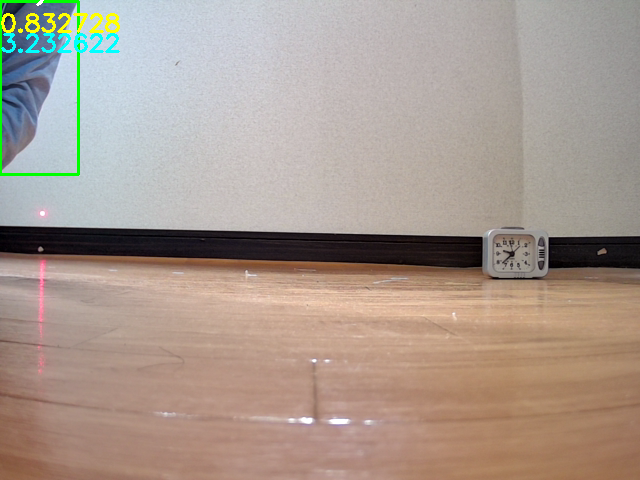
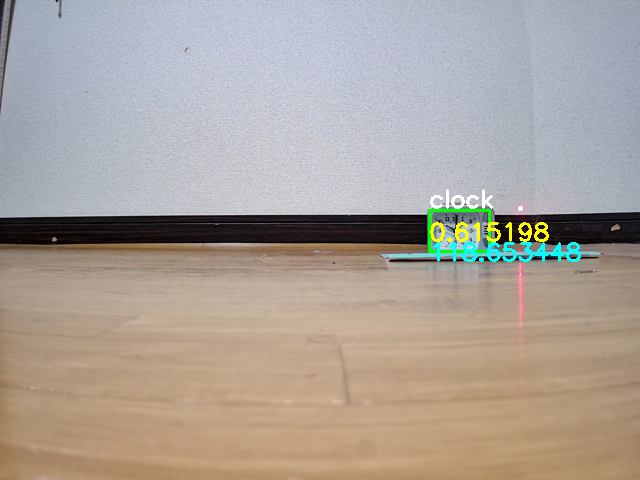
entire update

diff --git a/hw_px3/hw_px3/main.py b/hw_px3/hw_px3/main.py
@@ -5,6 +5,53 @@ from rclpy.node import Node
 from custom_msgs.msg import AbsResult
 import serial
 import time
+import numpy as np
+
+
+def theta(x, z, max_x):
+    AO = int(max_x / 2)
+    OP = z
+    dot = -AO * (x - AO) + OP ** 2
+    mag_CA = np.sqrt(AO ** 2 + OP ** 2)
+    mag_Cx = np.sqrt((x - AO) ** 2 + OP ** 2)
+    cos_theta = dot / (mag_CA * mag_Cx)
+    cos_theta = np.clip(cos_theta, -1.0, 1.0)
+    return np.degrees(np.arccos(cos_theta))
+
+
+def get_angle_from_x(x):
+    # reference table
+    points = [
+        (0, 57),
+        (8, 59),
+        (23, 65),
+        (40, 71),
+        (59, 77),
+        (79, 84),
+        (98, 89),
+        (115, 97),
+        (132, 102),
+        (148, 108),
+        (156, 109)
+    ]
+
+    if x < 0 or x > 156:
+        return None  # Cambiado: devolver None para errores
+
+    for point_x, point_angle in points:
+        if x == point_x:
+            return point_angle
+
+    for i in range(len(points) - 1):
+        x0, angle0 = points[i]
+        x1, angle1 = points[i + 1]
+        if x0 <= x <= x1:
+            ratio = (x - x0) / (x1 - x0)
+            angle = angle0 + ratio * (angle1 - angle0)
+            return round(angle, 2)
+
+    return None  # Si no encuentra, devolver None
+
 
 class AbsSubscriber(Node):
     def __init__(self):
@@ -15,21 +62,16 @@ class AbsSubscriber(Node):
             self.listener_callback,
             10
         )
-        self.subscription
 
         try:
-            self.declare_parameter('arduino_path', '/dev/ttyACM0')
+            self.declare_parameter('arduino_path', '/dev/ttyACM1')
             arduino_path = self.get_parameter('arduino_path').get_parameter_value().string_value
             self.ser = serial.Serial(arduino_path, 9600, timeout=1)
 
-            # === Initial setup ===
             self.initial_value = 56
-            self.current_angle = self.initial_value
-
-            # Send initial angle
-            self.send_angle(self.current_angle)
-            self.get_logger().info(f"Servo initialized at angle: {self.current_angle}")
-            time.sleep(5)
+            self.send_angle(self.initial_value)
+            self.get_logger().info(f"Arduino initialized at {arduino_path}, angle set to {self.initial_value}")
+            time.sleep(2)  # Opcional: espera para estabilizar Arduino
 
         except serial.SerialException as e:
             self.get_logger().error(f"Failed to connect to Arduino: {e}")
@@ -37,26 +79,28 @@ class AbsSubscriber(Node):
 
     def send_angle(self, angle):
         if self.ser and self.ser.is_open:
-            angle = int(180 - float(angle))
-            self.ser.write(f"{angle}\n".encode())
-            self.get_logger().info(f"Sent angle: {angle}")
+            try:
+                angle_mapped = int(180 - float(angle))  # Mapeo final: ajuste para tu servo
+                self.ser.write(f"{angle_mapped}\n".encode())
+                self.get_logger().info(f"Sent angle: {angle_mapped} (Original: {angle})")
+            except Exception as e:
+                self.get_logger().error(f"Error sending angle: {e}")
 
     def listener_callback(self, msg):
-        self.get_logger().info(f"Received: abs_dist={msg.abs_dist:.2f}, angle_deg={msg.angle_deg:.2f}")
+        self.get_logger().info(
+            f"Received: abs_dist={msg.abs_dist:.2f}, x_real_coordinate={msg.x_real_coordinate:.2f}, max_x={msg.max_x:.2f}"
+        )
+
         if not self.ser:
+            self.get_logger().error("Serial connection not initialized")
             return
 
-        if msg.angle_deg==0.00:
-            print("0 angle received")
+        angle_deg = get_angle_from_x(msg.x_real_coordinate)
+        if angle_deg is None:
+            self.get_logger().warn(f"x={msg.x_real_coordinate} out of range, angle not sent.")
             return
-        try:
-            mapped_angle = msg.angle_deg + self.initial_value
-            print(f"map angle {mapped_angle}, msg_angle {msg.angle_deg}, initial {self.initial_value}")
-            self.current_angle = mapped_angle
-            self.send_angle(self.current_angle)
 
-        except Exception as e:
-            self.get_logger().error(f"Failed to send angle: {e}")
+        self.send_angle(angle_deg)
 
     def destroy_node(self):
         if self.ser:
@@ -64,12 +108,13 @@ class AbsSubscriber(Node):
             self.get_logger().info("Serial connection closed.")
         super().destroy_node()
 
+
 def main(args=None):
     rclpy.init(args=args)
     node = AbsSubscriber()
 
     try:
-        while rclpy.ok():  # Continuous operation until stopped
+        while rclpy.ok():
             rclpy.spin_once(node)
     except KeyboardInterrupt:
         pass
@@ -77,6 +122,6 @@ def main(args=None):
         node.destroy_node()
         rclpy.shutdown()
 
+
 if __name__ == '__main__':
     main()
-

diff --git a/px2/src/inference.cpp b/px2/src/inference.cpp
@@ -43,12 +43,12 @@ namespace onnx_inference
       RCLCPP_INFO(rclcpp::get_logger("ImageSubscriber"), "Image received: %dx%d", latest_image_.cols, latest_image_.rows);
       
       // Generate timestamped filename
-      auto now = std::chrono::system_clock::now();
-      std::time_t now_c = std::chrono::system_clock::to_time_t(now);
-      std::stringstream filename;
-      filename << "/ros2_ws/px4/images/px2_image_"
-         << std::put_time(std::localtime(&now_c), "%Y%m%d_%H%M%S") << ".jpg";
-      cv::imwrite(filename.str(), latest_image_);
+      //auto now = std::chrono::system_clock::now();
+      //std::time_t now_c = std::chrono::system_clock::to_time_t(now);
+      //std::stringstream filename;
+      //filename << "/ros2_ws/px4/images/px2_image_"
+      //   << std::put_time(std::localtime(&now_c), "%Y%m%d_%H%M%S") << ".jpg";
+      //cv::imwrite(filename.str(), latest_image_);
       
       //std::cout << "Found image: " << pkg_path + IMG_PATH << std::endl;
       cv::Mat yolo_image = latest_image_;
@@ -77,7 +77,8 @@ namespace onnx_inference
       auto it = subscribe_dist.begin();
       message.abs_dist = *it;
       ++it;
-      message.angle_deg = *it;
+      message.x_real_coordinate = *it;
+      message.max_x = max_x;
       publishState(message); 
   }
 
@@ -123,14 +124,14 @@ namespace onnx_inference
         double x_real_coordinate = calculateRealCoordinate(x, w);
 	double abs_dist = quadraticFunction(relative_dist);
 	abs_dist = decided_z;
-        double angle_deg = calculateClampedAngle(x_real_coordinate, abs_dist, max_x);
+
 	std::cout << "Horizontal real distance: " << x_real_coordinate << "cm" << std::endl;
-        std::cout << "relative_dist:" << relative_dist << "absolute dist:" << abs_dist << "servo angle:" << angle_deg << std::endl;
+        std::cout << "relative_dist:" << relative_dist << "absolute dist:" << abs_dist << std::endl;
 
 	subscriber_list.push_back(abs_dist);
-	subscriber_list.push_back(angle_deg);
+	subscriber_list.push_back(x_real_coordinate);
 
-	cv::putText(yolo_result, std::to_string(angle_deg),
+	cv::putText(yolo_result, std::to_string(x_real_coordinate),
                         cv::Point(x, y+50), cv::FONT_ITALIC,
                         0.8, cv::Scalar(255, 255, 0), 2);
 	if (!subscriber_list.empty()){
@@ -142,8 +143,8 @@ namespace onnx_inference
   }
   void OnnxInferenceNode::publishState(const custom_msgs::msg::AbsResult & message)
   {
-     RCLCPP_INFO(this->get_logger(), "Publishing absolute_dist: %.2f, angle_deg: %.2f",
-              message.abs_dist, message.angle_deg);
+     RCLCPP_INFO(this->get_logger(), "Publishing absolute_dist: %.2f, x_real_coordinate: %.2f, max_x: %.2f",
+              message.abs_dist, message.x_real_coordinate, message.max_x);
      publisher_->publish(message);
   }
 

diff --git a/px2/include/tool.h b/px2/include/tool.h
@@ -1,7 +1,7 @@
 #include <iostream>
 int x_ori = 17; // (+17px)
 double pixel_ratio = 0.171837;       // Real-world units per pixel
-double max_x = 180.0;
+double max_x = 100.0;
 
 double calculateRealCoordinate(double x, double w) {
     // Compute pixel offset from image center
@@ -30,37 +30,5 @@ double quadraticFunction(double x) {
     return a * std::pow(x, 2) + b * x + c;
 }
 
-double calculateClampedAngle(double x, double z, double max_x) {
-    // Clamp x to the range [0, max_x]
-    x = std::max(0.0, std::min(x, max_x));
-    // coordinates
-    double Ax = 0.0, Ay = 0.0;
-    double Px = max_x / 2.0, Py = z;
-    double hx = x, hy = 0.0;
 
-    // Vectors AP and HP (origin shifted to point P)
-    double vec_AP_x = Ax - Px;
-    double vec_AP_y = Ay - Py;
-
-    double vec_hP_x = hx - Px;
-    double vec_hP_y = hy - Py;
-
-    // Dot product and vector magnitude
-    double dot = vec_AP_x * vec_hP_x + vec_AP_y * vec_hP_y;
-    double mag_AP = std::hypot(vec_AP_x, vec_AP_y);
-    double mag_hP = std::hypot(vec_hP_x, vec_hP_y);
-
-    // Safety check to avoid division by zero
-    if (mag_AP == 0 || mag_hP == 0) return 0.0;
-
-    // cosθ = dot / (|a||b|)
-    double cos_theta = dot / (mag_AP * mag_hP);
-
-    // Clamp cos_theta to [-1, 1] to prevent domain errors
-    if (cos_theta < -1.0) cos_theta = -1.0;
-    if (cos_theta > 1.0) cos_theta = 1.0;
-
-    double angle_rad = std::acos(cos_theta);
-    return angle_rad * (180.0 / M_PI);
-}
 

diff --git a/system_launch/launch/bringup.launch.py b/system_launch/launch/bringup.launch.py
@@ -1,8 +1,14 @@
 from launch import LaunchDescription
+from launch.actions import DeclareLaunchArgument
+from launch.substitutions import LaunchConfiguration
 from launch_ros.actions import Node
 
 def generate_launch_description():
+    # Declarar argumentos para pasar desde la línea de comandos
     return LaunchDescription([
+        DeclareLaunchArgument('device_path', default_value='/dev/video4', description='Ruta de la cámara'),
+        DeclareLaunchArgument('arduino_path', default_value='/dev/ttyACM0', description='Ruta del Arduino'),
+
         Node(
             package='px2',
             executable='px2',
@@ -14,14 +20,13 @@ def generate_launch_description():
             executable='hw_px3',
             name='hw_px3_node',
             output='screen',
-            parameters=[{'arduino_path': '/dev/ttyACM0'}]
+            parameters=[{'arduino_path': LaunchConfiguration('arduino_path')}]
         ),
         Node(
             package='my_camera_pkg',
             executable='camera_publisher',
             name='my_camera_pkg_node',
             output='screen',
-            parameters=[{'device_path': '/dev/video4'}]
+            parameters=[{'device_path': LaunchConfiguration('device_path')}]
         ),
     ])
-

diff --git a/system_launch/test/test_flake8.py b/system_launch/test/test_flake8.py
@@ -1,0 +1,25 @@
+# Copyright 2017 Open Source Robotics Foundation, Inc.
+#
+# Licensed under the Apache License, Version 2.0 (the "License");
+# you may not use this file except in compliance with the License.
+# You may obtain a copy of the License at
+#
+#     http://www.apache.org/licenses/LICENSE-2.0
+#
+# Unless required by applicable law or agreed to in writing, software
+# distributed under the License is distributed on an "AS IS" BASIS,
+# WITHOUT WARRANTIES OR CONDITIONS OF ANY KIND, either express or implied.
+# See the License for the specific language governing permissions and
+# limitations under the License.
+
+from ament_flake8.main import main_with_errors
+import pytest
+
+
+@pytest.mark.flake8
+@pytest.mark.linter
+def test_flake8():
+    rc, errors = main_with_errors(argv=[])
+    assert rc == 0, \
+        'Found %d code style errors / warnings:\n' % len(errors) + \
+        '\n'.join(errors)

diff --git a/system_launch/test/test_pep257.py b/system_launch/test/test_pep257.py
@@ -1,0 +1,23 @@
+# Copyright 2015 Open Source Robotics Foundation, Inc.
+#
+# Licensed under the Apache License, Version 2.0 (the "License");
+# you may not use this file except in compliance with the License.
+# You may obtain a copy of the License at
+#
+#     http://www.apache.org/licenses/LICENSE-2.0
+#
+# Unless required by applicable law or agreed to in writing, software
+# distributed under the License is distributed on an "AS IS" BASIS,
+# WITHOUT WARRANTIES OR CONDITIONS OF ANY KIND, either express or implied.
+# See the License for the specific language governing permissions and
+# limitations under the License.
+
+from ament_pep257.main import main
+import pytest
+
+
+@pytest.mark.linter
+@pytest.mark.pep257
+def test_pep257():
+    rc = main(argv=['.', 'test'])
+    assert rc == 0, 'Found code style errors / warnings'

diff --git a/system_launch/test/test_copyright.py b/system_launch/test/test_copyright.py
@@ -1,0 +1,23 @@
+# Copyright 2015 Open Source Robotics Foundation, Inc.
+#
+# Licensed under the Apache License, Version 2.0 (the "License");
+# you may not use this file except in compliance with the License.
+# You may obtain a copy of the License at
+#
+#     http://www.apache.org/licenses/LICENSE-2.0
+#
+# Unless required by applicable law or agreed to in writing, software
+# distributed under the License is distributed on an "AS IS" BASIS,
+# WITHOUT WARRANTIES OR CONDITIONS OF ANY KIND, either express or implied.
+# See the License for the specific language governing permissions and
+# limitations under the License.
+
+from ament_copyright.main import main
+import pytest
+
+
+@pytest.mark.copyright
+@pytest.mark.linter
+def test_copyright():
+    rc = main(argv=['.', 'test'])
+    assert rc == 0, 'Found errors'

diff --git a/px2/include/inference.h b/px2/include/inference.h
@@ -6,6 +6,8 @@
 #include <memory>
 #include <string>
 #include <sensor_msgs/msg/image.hpp>
+#include <cv_bridge/cv_bridge.h>
+#include <opencv2/opencv.hpp>
 #include "rclcpp/rclcpp.hpp"
 #include <ament_index_cpp/get_package_share_directory.hpp>
 #include "custom_msgs/msg/abs_result.hpp"

diff --git a/hw_px3/hw_px3/simulate_servo_arduino.py b/hw_px3/hw_px3/simulate_servo_arduino.py
@@ -2,7 +2,7 @@ import serial
 import time
 
 # === Serial Setup ===
-ARDUINO_PORT = '/dev/ttyACM0'  # Change if needed
+ARDUINO_PORT = '/dev/ttyACM1'  # Change if needed
 BAUD_RATE = 9600
 initial = 56
 max_angle = 108

diff --git a/hw_px3/hw_px3/gui_calibrate.py b/hw_px3/hw_px3/gui_calibrate.py
@@ -4,7 +4,7 @@ import tkinter as tk
 from tkinter import messagebox
 
 # === Serial Setup ===
-ARDUINO_PORT = '/dev/ttyACM0'
+ARDUINO_PORT = '/dev/ttyACM1'
 BAUD_RATE = 9600
 
 ser = None
